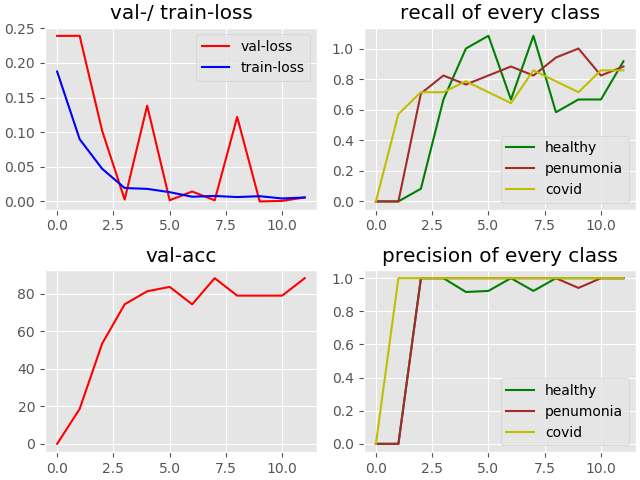
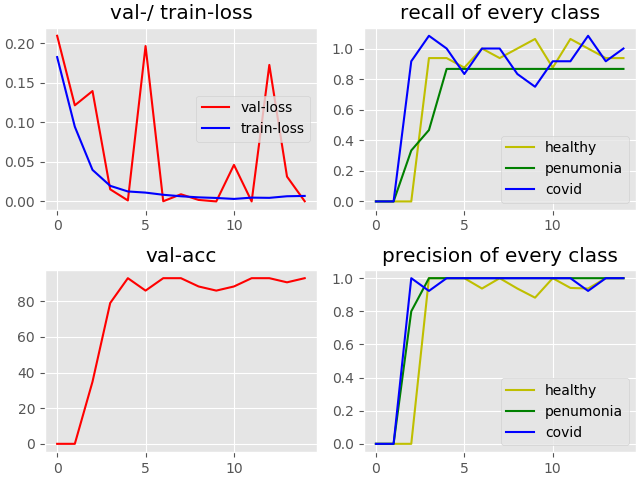
new evaluations

diff --git a/README.md b/README.md
@@ -23,6 +23,12 @@
 #### - dropout (dense-layers): 40%
 
 ## trainings-progress:
+### test-accuracy: 93.0233%
+##### (high precision on recall, probably because of the small dataset)
+### recalls:
+#### covid: 100%, other-type pneumonia: 86.667%, healthy: 93.75%
+### precisions:
+#### covid: 100%, other-type pneumonia: 100%, healthy: 100%
 ![training](plots/training_2.png)
 
 ## example outputs:
